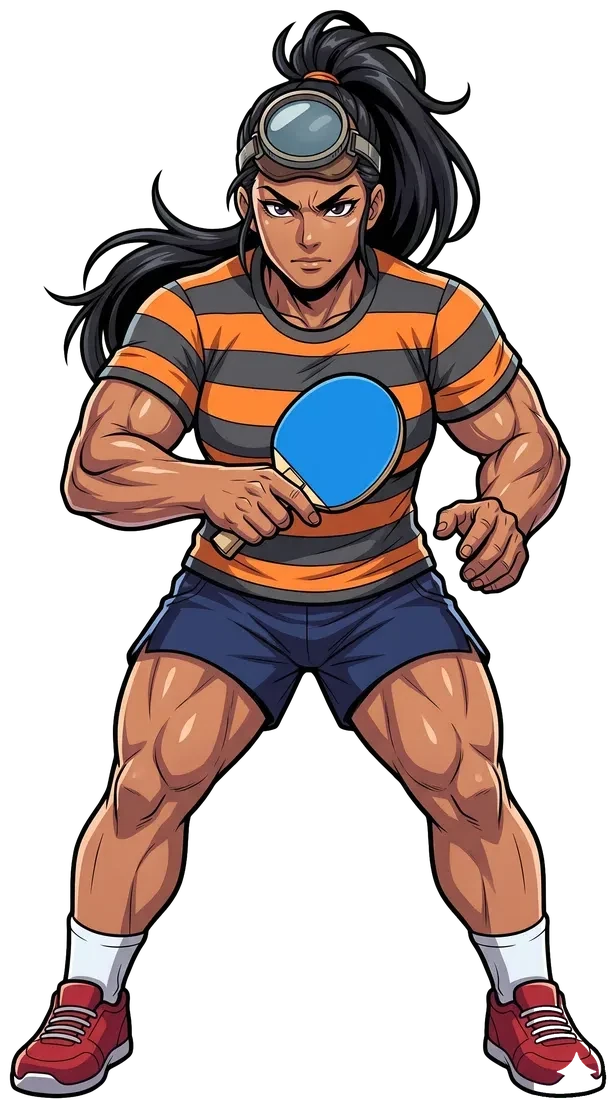
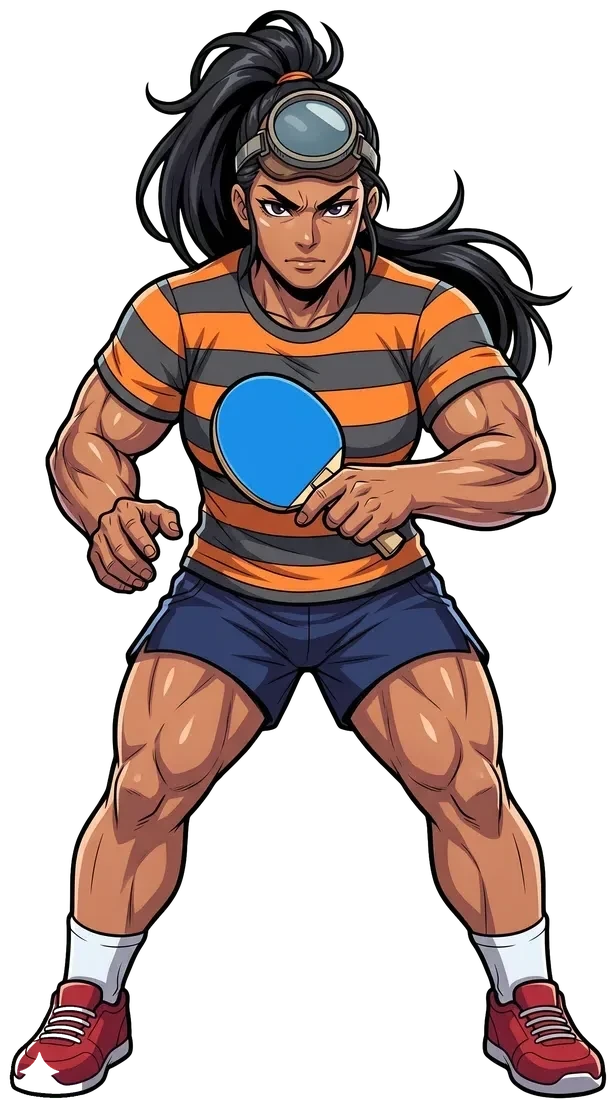
v18.4: 윤비행·고바람 앞모습 정지 원화 왼손 보정
Claude-Session: https://claude.ai/code/session_01TcdcGLCBtZwSjznrhxSrAX

diff --git a/sw.js b/sw.js
@@ -1,5 +1,5 @@
-// 핑마스터 오프라인 캐시 · 버전 202611110634
-const V='pm-202611110634',CORE=["./", "index.html", "manifest.webmanifest", "icons/icon-192.png", "icons/icon-512.png", "img/ui/arena_bg.webp", "img/ui/bg_club.webp", "img/ui/bg_home.webp", "img/ui/bg_league.webp", "img/ui/bg_market.webp", "img/ui/bg_squad.webp", "img/ui/logo.webp", "img/ui/title_bg.webp", "img/ui/trophy.webp", "img/char/baekcut_back.webp", "img/char/baekcut_card.webp", "img/char/baekcut_cutin.webp", "img/char/baekcut_front.webp", "img/char/baekcut_portrait.webp", "img/char/gobaram_back.webp", "img/char/gobaram_card.webp", "img/char/gobaram_cutin.webp", "img/char/gobaram_front.webp", "img/char/gobaram_portrait.webp", "img/char/hangang_back.webp", "img/char/hangang_card.webp", "img/char/hangang_cutin.webp", "img/char/hangang_front.webp", "img/char/hangang_portrait.webp", "img/char/jeongmil_back.webp", "img/char/jeongmil_card.webp", "img/char/jeongmil_cutin.webp", "img/char/jeongmil_front.webp", "img/char/jeongmil_portrait.webp", "img/char/mapado_back.webp", "img/char/mapado_card.webp", "img/char/mapado_cutin.webp", "img/char/mapado_front.webp", "img/char/mapado_portrait.webp", "img/char/neunggeum_back.webp", "img/char/neunggeum_card.webp", "img/char/neunggeum_cutin.webp", "img/char/neunggeum_front.webp", "img/char/neunggeum_portrait.webp", "img/char/padoyeon_back.webp", "img/char/padoyeon_card.webp", "img/char/padoyeon_cutin.webp", "img/char/padoyeon_front.webp", "img/char/padoyeon_portrait.webp", "img/char/yoonbi_back.webp", "img/char/yoonbi_card.webp", "img/char/yoonbi_cutin.webp", "img/char/yoonbi_front.webp", "img/char/yoonbi_portrait.webp"];
+// 핑마스터 오프라인 캐시 · 버전 202611112053
+const V='pm-202611112053',CORE=["./", "index.html", "manifest.webmanifest", "icons/icon-192.png", "icons/icon-512.png", "img/ui/arena_bg.webp", "img/ui/bg_club.webp", "img/ui/bg_home.webp", "img/ui/bg_league.webp", "img/ui/bg_market.webp", "img/ui/bg_squad.webp", "img/ui/logo.webp", "img/ui/title_bg.webp", "img/ui/trophy.webp", "img/char/baekcut_back.webp", "img/char/baekcut_card.webp", "img/char/baekcut_cutin.webp", "img/char/baekcut_front.webp", "img/char/baekcut_portrait.webp", "img/char/gobaram_back.webp", "img/char/gobaram_card.webp", "img/char/gobaram_cutin.webp", "img/char/gobaram_front.webp", "img/char/gobaram_portrait.webp", "img/char/hangang_back.webp", "img/char/hangang_card.webp", "img/char/hangang_cutin.webp", "img/char/hangang_front.webp", "img/char/hangang_portrait.webp", "img/char/jeongmil_back.webp", "img/char/jeongmil_card.webp", "img/char/jeongmil_cutin.webp", "img/char/jeongmil_front.webp", "img/char/jeongmil_portrait.webp", "img/char/mapado_back.webp", "img/char/mapado_card.webp", "img/char/mapado_cutin.webp", "img/char/mapado_front.webp", "img/char/mapado_portrait.webp", "img/char/neunggeum_back.webp", "img/char/neunggeum_card.webp", "img/char/neunggeum_cutin.webp", "img/char/neunggeum_front.webp", "img/char/neunggeum_portrait.webp", "img/char/padoyeon_back.webp", "img/char/padoyeon_card.webp", "img/char/padoyeon_cutin.webp", "img/char/padoyeon_front.webp", "img/char/padoyeon_portrait.webp", "img/char/yoonbi_back.webp", "img/char/yoonbi_card.webp", "img/char/yoonbi_cutin.webp", "img/char/yoonbi_front.webp", "img/char/yoonbi_portrait.webp"];
 self.addEventListener('install',e=>{e.waitUntil(caches.open(V).then(c=>c.addAll(CORE)).then(()=>self.skipWaiting()));});
 self.addEventListener('activate',e=>{e.waitUntil(caches.keys().then(ks=>Promise.all(ks.filter(k=>k!==V).map(k=>caches.delete(k)))).then(()=>self.clients.claim()));});
 self.addEventListener('fetch',e=>{const r=e.request;if(r.method!=='GET')return;const u=new URL(r.url);

diff --git a/index.html b/index.html
@@ -6783,7 +6783,7 @@ function v18Event(next){const ps=S.players.filter(p=>!p.inj);if(!ps.length){next
 </script>
 
 <script>
-if('serviceWorker' in navigator){window.addEventListener('load',()=>{navigator.serviceWorker.register('sw.js?v=202611110634').catch(()=>{});});}
+if('serviceWorker' in navigator){window.addEventListener('load',()=>{navigator.serviceWorker.register('sw.js?v=202611112053').catch(()=>{});});}
 // 설치형 앱에서 화면 꺼짐 방지(경기 중) · 뒤로가기 실수 방지
 try{if('wakeLock' in navigator)document.addEventListener('pointerdown',function w(){navigator.wakeLock.request('screen').catch(()=>{});document.removeEventListener('pointerdown',w);});}catch(e){}
 </script>
